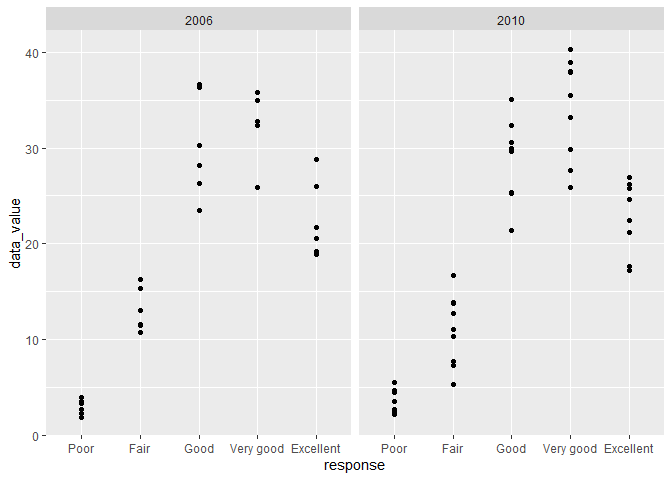
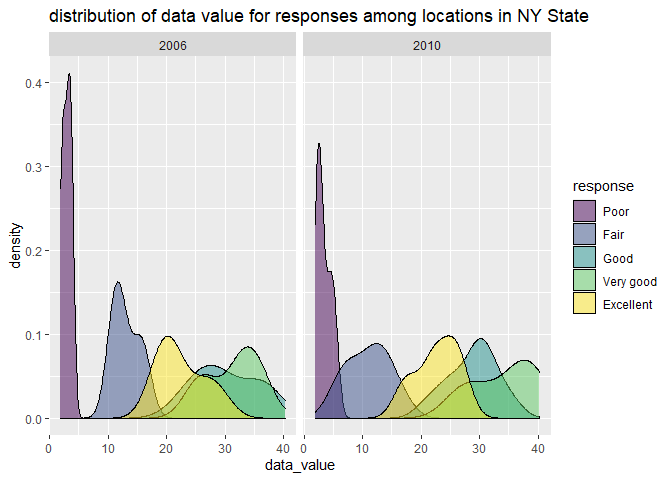
Problem 3

diff --git a/p8105_hw3_xz3078.md b/p8105_hw3_xz3078.md
@@ -90,22 +90,21 @@ instacart %>%
   filter(aisle %in% c("baking ingredients", "dog food care", "packaged vegetables fruits")) %>%
   group_by(aisle) %>%
   count(product_name, name = "n_product") %>%
-  slice_max(n_product, n=3)
+  slice_max(n_product, n=3) %>%
+  knitr::kable()
 ```
 
-    ## # A tibble: 9 x 3
-    ## # Groups:   aisle [3]
-    ##   aisle                      product_name                              n_product
-    ##   <chr>                      <chr>                                         <int>
-    ## 1 baking ingredients         Light Brown Sugar                               499
-    ## 2 baking ingredients         Pure Baking Soda                                387
-    ## 3 baking ingredients         Cane Sugar                                      336
-    ## 4 dog food care              Snack Sticks Chicken & Rice Recipe Dog T~        30
-    ## 5 dog food care              Organix Chicken & Brown Rice Recipe              28
-    ## 6 dog food care              Small Dog Biscuits                               26
-    ## 7 packaged vegetables fruits Organic Baby Spinach                           9784
-    ## 8 packaged vegetables fruits Organic Raspberries                            5546
-    ## 9 packaged vegetables fruits Organic Blueberries                            4966
+| aisle                      | product\_name                                 | n\_product |
+|:---------------------------|:----------------------------------------------|-----------:|
+| baking ingredients         | Light Brown Sugar                             |        499 |
+| baking ingredients         | Pure Baking Soda                              |        387 |
+| baking ingredients         | Cane Sugar                                    |        336 |
+| dog food care              | Snack Sticks Chicken & Rice Recipe Dog Treats |         30 |
+| dog food care              | Organix Chicken & Brown Rice Recipe           |         28 |
+| dog food care              | Small Dog Biscuits                            |         26 |
+| packaged vegetables fruits | Organic Baby Spinach                          |       9784 |
+| packaged vegetables fruits | Organic Raspberries                           |       5546 |
+| packaged vegetables fruits | Organic Blueberries                           |       4966 |
 
 The three most popular items in “baking ingredients” are “Light Brown
 Sugar” with 499 items, “Pure Baking Soda” 387 items, and “Cane Sugar”
@@ -126,20 +125,19 @@ instacart %>%
     names_from = "order_dow", 
     values_from = "mean_hod"
   ) %>%
-  rename(Sunday = "0", Monday = "1", Tuesday = "2", Wednesday = "3", Thursday = "4", Friday = "5", Saturday = "6")
+  rename(Sunday = "0", Monday = "1", Tuesday = "2", Wednesday = "3", Thursday = "4", Friday = "5", Saturday = "6") %>%
+  knitr::kable()
 ```
 
     ## `summarise()` has grouped output by 'product_name'. You can override using the `.groups` argument.
 
-    ## # A tibble: 2 x 8
-    ## # Groups:   product_name [2]
-    ##   product_name     Sunday Monday Tuesday Wednesday Thursday Friday Saturday
-    ##   <chr>             <dbl>  <dbl>   <dbl>     <dbl>    <dbl>  <dbl>    <dbl>
-    ## 1 Coffee Ice Cream   13.8   14.3    15.4      15.3     15.2   12.3     13.8
-    ## 2 Pink Lady Apples   13.4   11.4    11.7      14.2     11.6   12.8     11.9
+| product\_name    |   Sunday |   Monday |  Tuesday | Wednesday | Thursday |   Friday | Saturday |
+|:-----------------|---------:|---------:|---------:|----------:|---------:|---------:|---------:|
+| Coffee Ice Cream | 13.77419 | 14.31579 | 15.38095 |  15.31818 | 15.21739 | 12.26316 | 13.83333 |
+| Pink Lady Apples | 13.44118 | 11.36000 | 11.70213 |  14.25000 | 11.55172 | 12.78431 | 11.93750 |
 
 The mean hour of the day at which Coffee Ice Cream are ordered from
-Sunday to Saturday are 13.7, 14.3, 15.4, 15.3, 15.2, 12.3, and 13.8. The
+Sunday to Saturday are 13.8, 14.3, 15.4, 15.3, 15.2, 12.3, and 13.8. The
 mean hour of the day at which Pink Lady Apples are ordered from Sunday
 to Saturday are 13.4, 11.4, 11.7, 14.3, 11.6, 12.8, and 11.9.
 
@@ -218,7 +216,9 @@ brfss %>%
   select(year, state, mean_value) %>%
   distinct() %>%
   ggplot(aes(x = year, y = mean_value, color = state)) + 
-    geom_line(alpha = .5)
+    geom_line(alpha = .5) + 
+    labs(title = "“spaghetti” plot of average value over time",
+         y = "mean value")
 ```
 
 ![](p8105_hw3_xz3078_files/figure-gfm/unnamed-chunk-9-1.png)<!-- -->
@@ -231,32 +231,128 @@ brfss %>%
   filter(year %in% c(2006, 2010), state == "NY") %>%
   group_by(year, response) %>%
   drop_na(data_value) %>%
-  ggplot(aes(x = response, y = data_value)) + 
-    geom_point() +
+  ggplot(aes(x = data_value, fill = response)) + 
+    geom_density(alpha = .5) +
+    labs(title = "distribution of data value for responses among locations in NY State") + 
     facet_grid(. ~ year)
 ```
 
 ![](p8105_hw3_xz3078_files/figure-gfm/unnamed-chunk-10-1.png)<!-- -->
 
-Make a two-panel plot showing, for the years 2006, and 2010,
-distribution of data\_value for responses (“Poor” to “Excellent”) among
-locations in NY State.
+We can see from the plot that the data value in 2010 is better than 2006
+in general. The value for “Excellent” response is between “Fair” and
+“Good”.
 
 ## Problem 3
 
 ``` r
 accel=
   read_csv("./data/accel_data.csv") %>%
-  janitor::clean_names() 
+  janitor::clean_names() %>%
+  mutate(weekend = ifelse(day %in% c("Saturday", "Sunday"), 1, 0)) %>%
+  select(week, day_id, day, weekend, everything())
+
+accel
 ```
 
-    ## Rows: 35 Columns: 1443
+    ## # A tibble: 35 x 1,444
+    ##     week day_id day       weekend activity_1 activity_2 activity_3 activity_4
+    ##    <dbl>  <dbl> <chr>       <dbl>      <dbl>      <dbl>      <dbl>      <dbl>
+    ##  1     1      1 Friday          0       88.4       82.2       64.4       70.0
+    ##  2     1      2 Monday          0        1          1          1          1  
+    ##  3     1      3 Saturday        1        1          1          1          1  
+    ##  4     1      4 Sunday          1        1          1          1          1  
+    ##  5     1      5 Thursday        0       47.4       48.8       46.9       35.8
+    ##  6     1      6 Tuesday         0       64.8       59.5       73.7       45.7
+    ##  7     1      7 Wednesday       0       71.1      103.        68.5       45.4
+    ##  8     2      8 Friday          0      675        542       1010        779  
+    ##  9     2      9 Monday          0      291        335        393        335  
+    ## 10     2     10 Saturday        1       64         11          1          1  
+    ## # ... with 25 more rows, and 1,436 more variables: activity_5 <dbl>,
+    ## #   activity_6 <dbl>, activity_7 <dbl>, activity_8 <dbl>, activity_9 <dbl>,
+    ## #   activity_10 <dbl>, activity_11 <dbl>, activity_12 <dbl>, activity_13 <dbl>,
+    ## #   activity_14 <dbl>, activity_15 <dbl>, activity_16 <dbl>, activity_17 <dbl>,
+    ## #   activity_18 <dbl>, activity_19 <dbl>, activity_20 <dbl>, activity_21 <dbl>,
+    ## #   activity_22 <dbl>, activity_23 <dbl>, activity_24 <dbl>, activity_25 <dbl>,
+    ## #   activity_26 <dbl>, activity_27 <dbl>, activity_28 <dbl>, ...
 
-    ## -- Column specification --------------------------------------------------------
-    ## Delimiter: ","
-    ## chr    (1): day
-    ## dbl (1442): week, day_id, activity.1, activity.2, activity.3, activity.4, ac...
+In this dataset, there are 35 observations and 1444 variables. Variables
+"activity\_\*" are the activity counts for each minute of a 24-hour day
+starting at midnight. There are 5 weeks, variable “weekend” equals to 1
+if it’s Saturday or Sunday, equals to 0 if it’s weekdays.
 
-    ## 
-    ## i Use `spec()` to retrieve the full column specification for this data.
-    ## i Specify the column types or set `show_col_types = FALSE` to quiet this message.
+``` r
+accel %>%
+  mutate(activity_total = select(., activity_1:activity_1440) %>% rowSums(na.rm = TRUE)) %>%
+  select(week, day_id, day, weekend, activity_total) %>%
+  knitr::kable()
+```
+
+| week | day\_id | day       | weekend | activity\_total |
+|-----:|--------:|:----------|--------:|----------------:|
+|    1 |       1 | Friday    |       0 |       480542.62 |
+|    1 |       2 | Monday    |       0 |        78828.07 |
+|    1 |       3 | Saturday  |       1 |       376254.00 |
+|    1 |       4 | Sunday    |       1 |       631105.00 |
+|    1 |       5 | Thursday  |       0 |       355923.64 |
+|    1 |       6 | Tuesday   |       0 |       307094.24 |
+|    1 |       7 | Wednesday |       0 |       340115.01 |
+|    2 |       8 | Friday    |       0 |       568839.00 |
+|    2 |       9 | Monday    |       0 |       295431.00 |
+|    2 |      10 | Saturday  |       1 |       607175.00 |
+|    2 |      11 | Sunday    |       1 |       422018.00 |
+|    2 |      12 | Thursday  |       0 |       474048.00 |
+|    2 |      13 | Tuesday   |       0 |       423245.00 |
+|    2 |      14 | Wednesday |       0 |       440962.00 |
+|    3 |      15 | Friday    |       0 |       467420.00 |
+|    3 |      16 | Monday    |       0 |       685910.00 |
+|    3 |      17 | Saturday  |       1 |       382928.00 |
+|    3 |      18 | Sunday    |       1 |       467052.00 |
+|    3 |      19 | Thursday  |       0 |       371230.00 |
+|    3 |      20 | Tuesday   |       0 |       381507.00 |
+|    3 |      21 | Wednesday |       0 |       468869.00 |
+|    4 |      22 | Friday    |       0 |       154049.00 |
+|    4 |      23 | Monday    |       0 |       409450.00 |
+|    4 |      24 | Saturday  |       1 |         1440.00 |
+|    4 |      25 | Sunday    |       1 |       260617.00 |
+|    4 |      26 | Thursday  |       0 |       340291.00 |
+|    4 |      27 | Tuesday   |       0 |       319568.00 |
+|    4 |      28 | Wednesday |       0 |       434460.00 |
+|    5 |      29 | Friday    |       0 |       620860.00 |
+|    5 |      30 | Monday    |       0 |       389080.00 |
+|    5 |      31 | Saturday  |       1 |         1440.00 |
+|    5 |      32 | Sunday    |       1 |       138421.00 |
+|    5 |      33 | Thursday  |       0 |       549658.00 |
+|    5 |      34 | Tuesday   |       0 |       367824.00 |
+|    5 |      35 | Wednesday |       0 |       445366.00 |
+
+We can see from the table that for week 1 and 2, the weekend activity
+total are much higher than weekdays. In week 3, Monday has the highest
+activity total. In week 4 and 5, the activity total at weekend are less
+than weekdays, and he barely use accelerometers on Saturday. In general,
+the total activity has a decrease trend as week increases.
+
+``` r
+accel %>%
+  pivot_longer(
+    activity_1:activity_1440,
+    names_to = "activity_minute", 
+    values_to = "activity"
+  ) %>%
+  separate(activity_minute, into = c("act", "minute"), sep = 9) %>%
+  mutate(minute = as.numeric(minute)) %>%
+  ggplot(aes(x = minute, y = activity, color = day)) + 
+    geom_line() + 
+    labs(title = "24-hour activity time courses for each day") +
+    scale_x_continuous(breaks=seq(0, 1440, 60)) + 
+    theme(axis.text.x = element_text(angle=90, hjust=1))
+```
+
+![](p8105_hw3_xz3078_files/figure-gfm/unnamed-chunk-13-1.png)<!-- -->
+
+We can see from the graph that from 7pm to 11pm is the peak of using
+accelerometer data for all day of week. Another small peak is from 11am
+to 12pm for Sunday. From 11pm to 5am is the minimum of using
+accelerometer data. These all make sense because 11pm to 5am is time for
+sleep and people usually use more accelerometer data before bed time and
+at noon.
